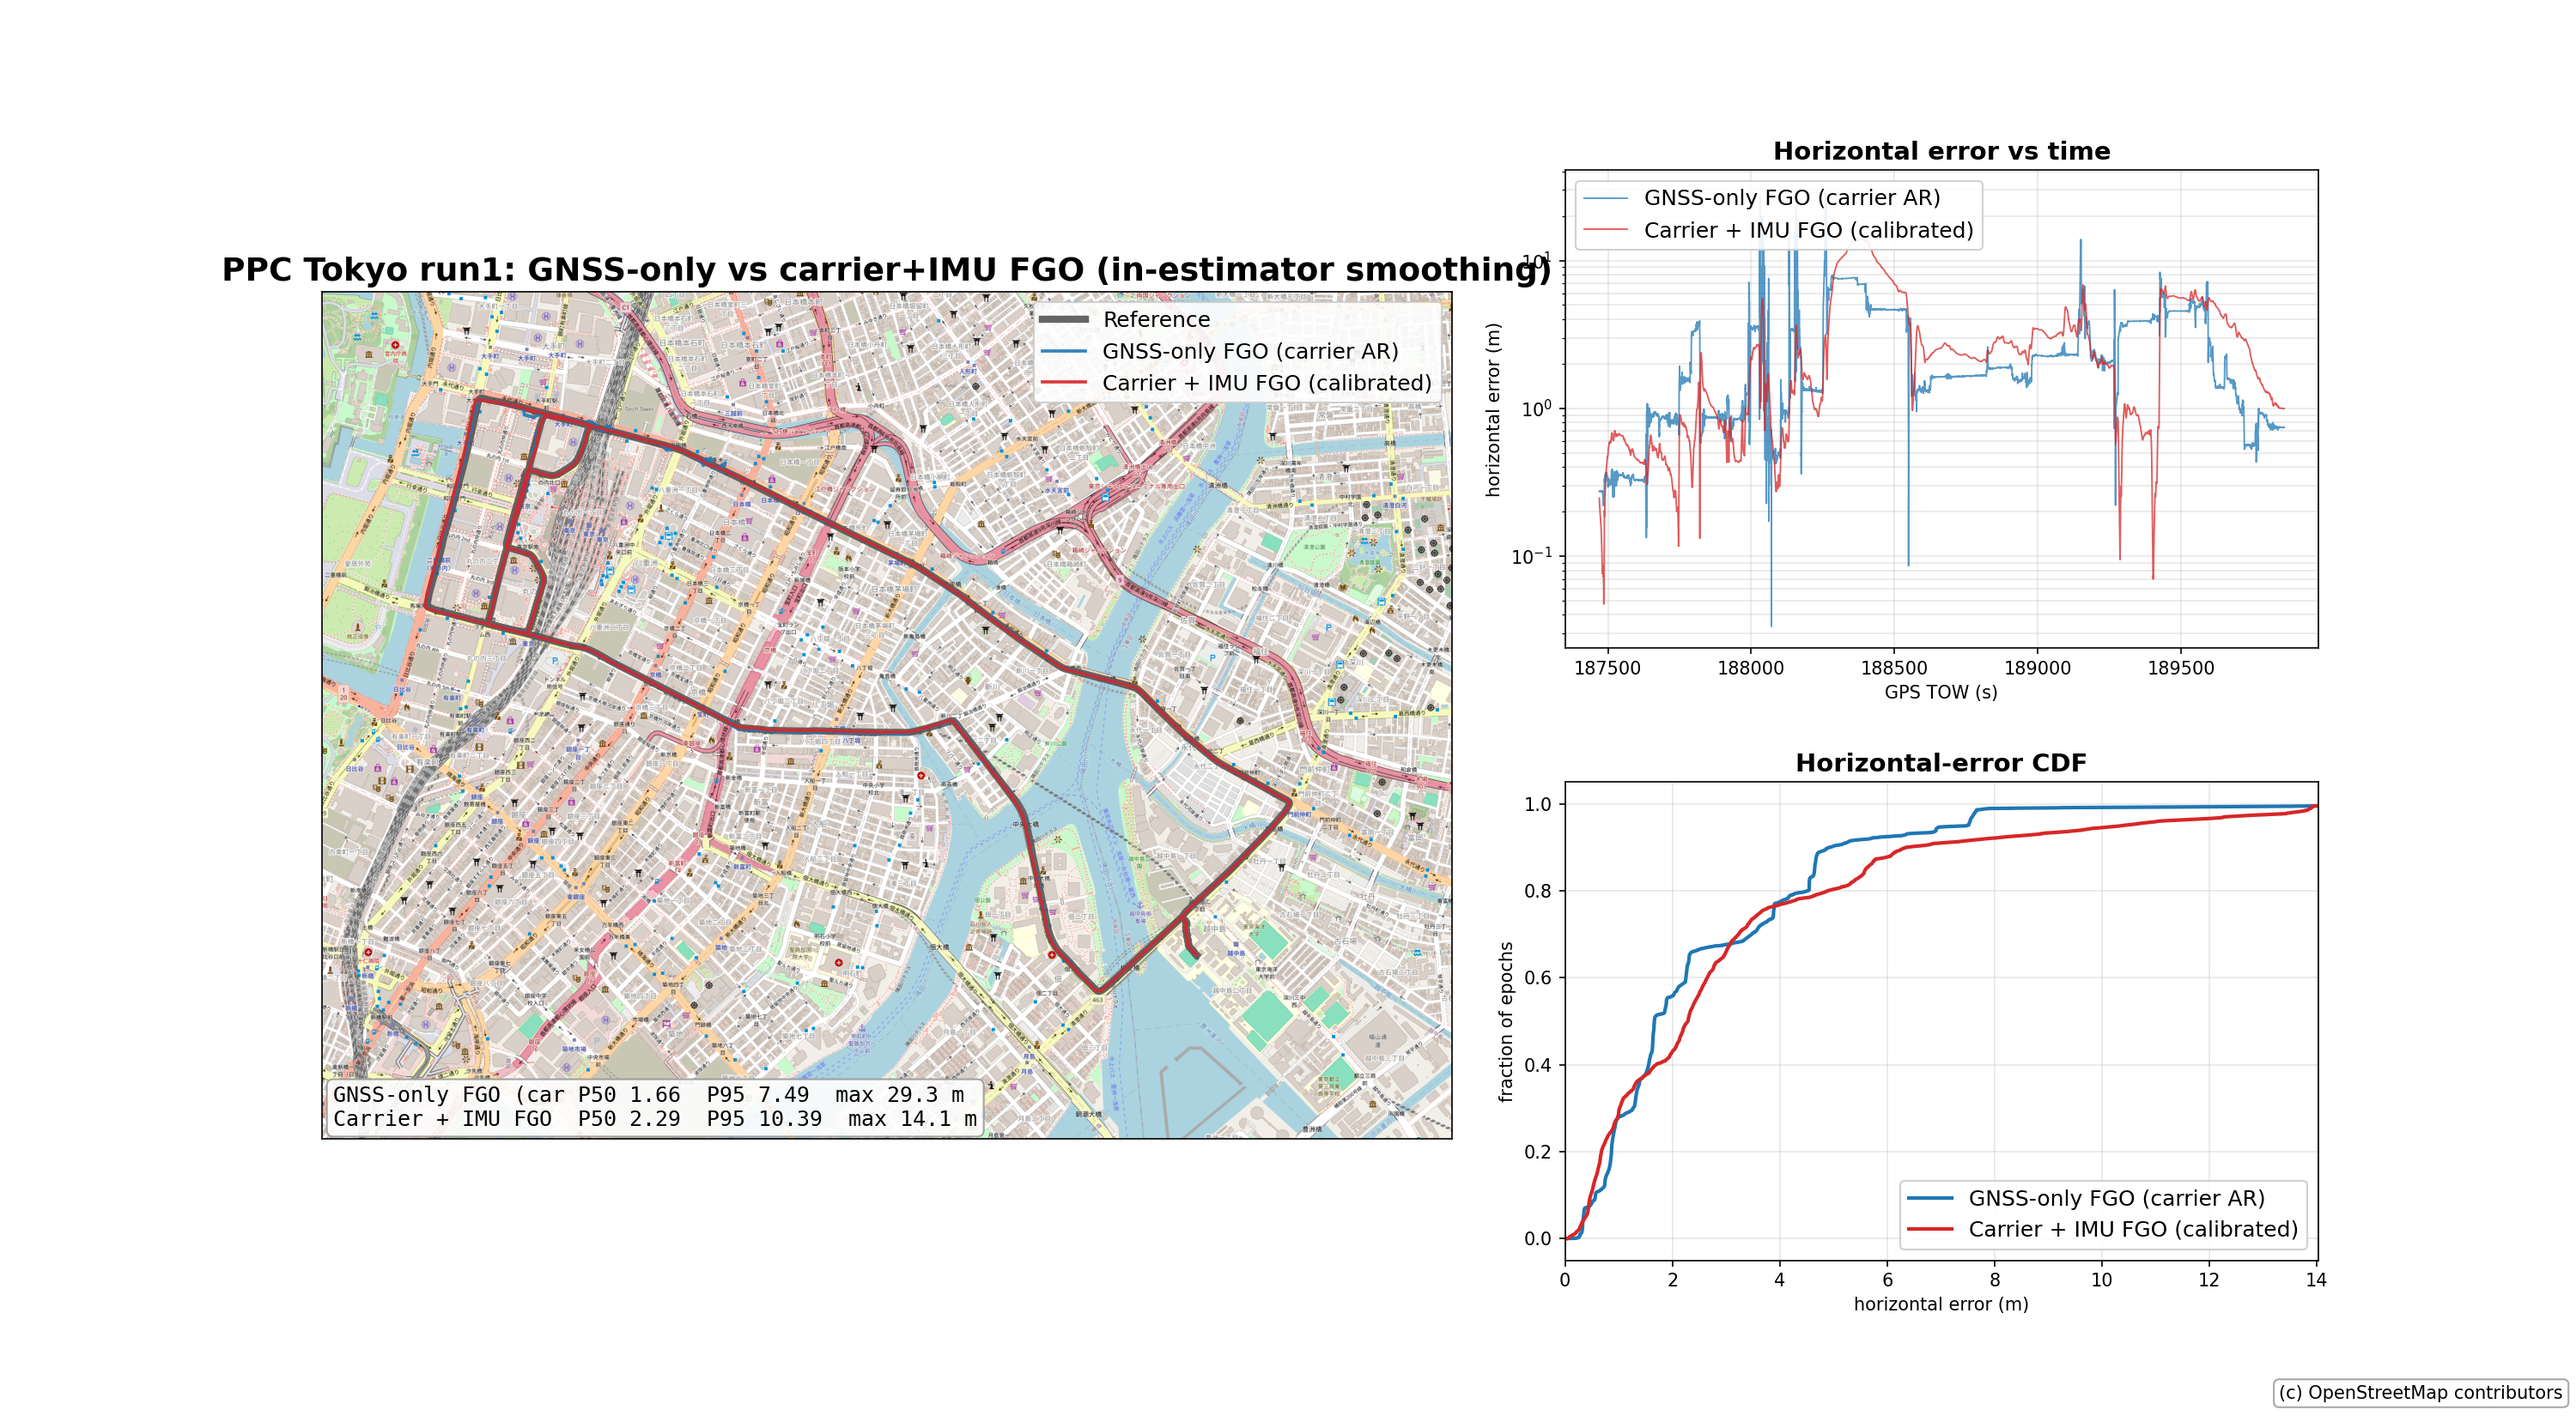
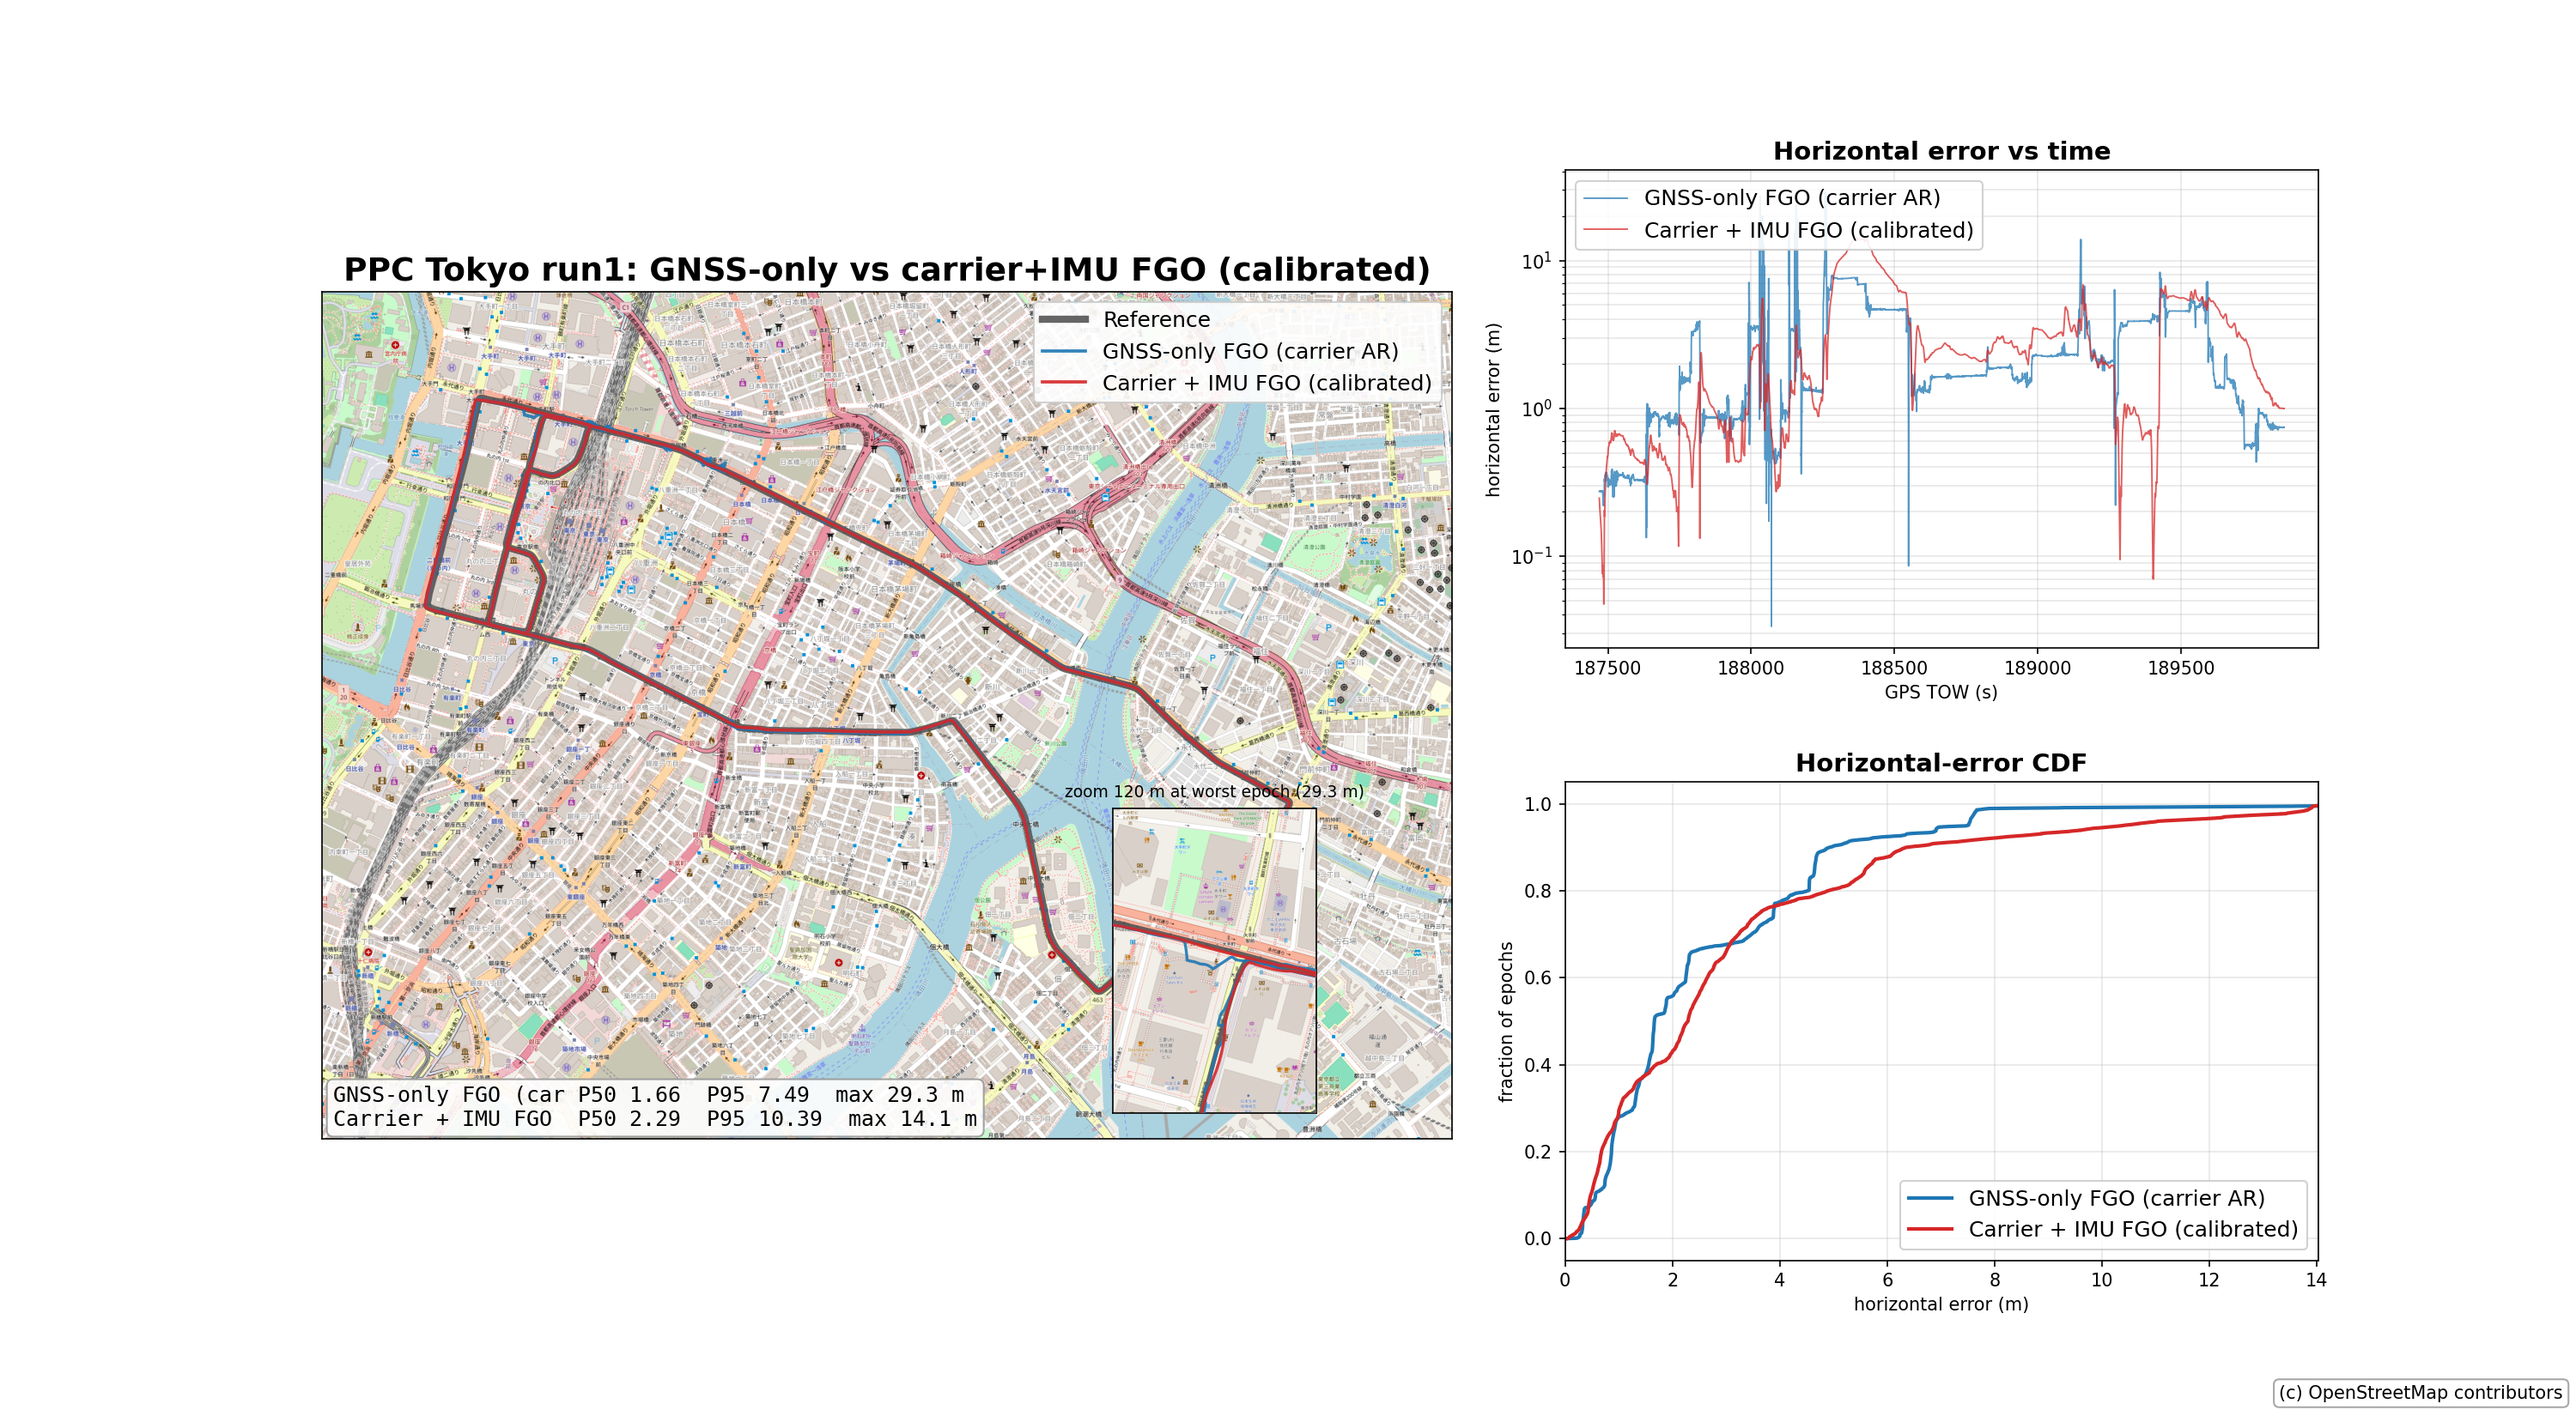
feat(plot): six-run validation and zoom inset for the FGO figure
Validate carrier+IMU vs carrier-only across tokyo run1/2/3 and nagoya
run1/2/3. Smoothing is consistent (~15-20x lower mean horizontal
acceleration from position second differences) and the worst epoch
improves in five of six runs (up to 158.8 -> 61.9 m on nagoya1); the
median is mixed. Adds a smoothness metric to the plot summary and an
auto 120 m zoom inset at the worst combined epoch.

Changed region(s): [[0.403, 0.5564, 0.527, 0.8036], [0.093, 0.1855, 0.62, 0.2164]]

diff --git a/scripts/plot_ppc_gnss_vs_fgo.py b/scripts/plot_ppc_gnss_vs_fgo.py
@@ -75,6 +75,7 @@ def horizontal_stats(solution, reference, tolerance_s: float) -> dict:
     if not matched:
         return {"matched": 0}
     h = np.array([epoch.horiz_error_m for epoch in matched])
+    acc_mean, acc_p95 = smoothness_stats(solution)
     return {
         "matched": len(matched),
         "p50_m": float(np.percentile(h, 50)),
@@ -82,7 +83,29 @@ def horizontal_stats(solution, reference, tolerance_s: float) -> dict:
         "max_m": float(h.max()),
         "rms_m": float(np.sqrt(np.mean(h * h))),
         "official_pct": float((np.percentile(h, 50) + np.percentile(h, 95)) / 2.0),
+        "acc_mean_mps2": acc_mean,
+        "acc_p95_mps2": acc_p95,
     }
+
+
+def smoothness_stats(solution) -> tuple:
+    """Mean/95th horizontal acceleration magnitude from position second
+    differences at the native epoch rate (in-estimator smoothness)."""
+    acc = []
+    for i in range(1, len(solution) - 1):
+        dt1 = solution[i].tow - solution[i - 1].tow
+        dt2 = solution[i + 1].tow - solution[i].tow
+        if not (0.15 <= dt1 <= 0.25 and 0.15 <= dt2 <= 0.25):
+            continue
+        a = solution[i - 1].ecef
+        b = solution[i].ecef
+        d = solution[i + 1].ecef
+        second = (d - 2.0 * b + a) / (dt1 * dt2)
+        acc.append(math.hypot(second[0], second[1]))
+    if not acc:
+        return float("nan"), float("nan")
+    arr = np.array(acc)
+    return float(arr.mean()), float(np.percentile(arr, 95))
 
 
 def lonlat_to_world(lat: float, lon: float, zoom: int) -> tuple[float, float]:
@@ -148,6 +171,9 @@ def parse_args():
     p.add_argument("--tolerance-s", type=float, default=0.25)
     p.add_argument("--no-osm", action="store_true",
                    help="Skip the OSM basemap (offline plot)")
+    p.add_argument("--no-zoom", action="store_true",
+                   help="Disable the zoomed inset at the worst combined epoch")
+    p.add_argument("--zoom-span-m", type=float, default=120.0)
     p.add_argument("--summary-only", action="store_true",
                    help="Print stats only, draw nothing")
     p.add_argument("--dpi", type=int, default=170)
@@ -219,6 +245,48 @@ def main() -> int:
         ax_map.set_ylim(oy + h, oy)
         fig.text(0.995, 0.01, "(c) OpenStreetMap contributors", ha="right", va="bottom",
                  fontsize=10, bbox=dict(boxstyle="round", fc="white", ec="#999999", alpha=0.85))
+
+        if not args.no_zoom:
+            worst_err = -1.0
+            worst_tow = None
+            for arm in arms:
+                for e in arm["matched"]:
+                    if e.horiz_error_m > worst_err:
+                        worst_err = e.horiz_error_m
+                        worst_tow = e.tow
+            center = None
+            if worst_tow is not None:
+                for arm in arms:
+                    for e in arm["epochs"]:
+                        if abs(e.tow - worst_tow) < 1e-6:
+                            center = (e.lat_deg, e.lon_deg)
+                            break
+                    if center is not None:
+                        break
+            if center is not None:
+                clat, clon = center
+                span_m = args.zoom_span_m
+                dlat = span_m / 111320.0
+                dlon = span_m / (111320.0 * math.cos(math.radians(clat)))
+                inset, izoom, ix, iy = build_basemap(
+                    clat - dlat, clat + dlat, clon - dlon, clon + dlon, 18)
+                iw, ih = inset.size
+                axi = ax_map.inset_axes([0.61, 0.03, 0.36, 0.36])
+                axi.imshow(np.asarray(inset), extent=[ix, ix + iw, iy + ih, iy])
+                rxs, rys = to_px([e.lat_deg for e in reference],
+                                 [e.lon_deg for e in reference], izoom)
+                axi.plot(rxs, rys, color=REF_COLOR, lw=2.5, alpha=0.9, zorder=3)
+                for arm in arms:
+                    xs, ys = to_px([e.lat_deg for e in arm["epochs"]],
+                                   [e.lon_deg for e in arm["epochs"]], izoom)
+                    axi.plot(xs, ys, color=arm["color"], lw=1.6, alpha=0.9, zorder=3)
+                axi.set_xlim(ix, ix + iw)
+                axi.set_ylim(iy + ih, iy)
+                axi.set_aspect("equal")
+                axi.set_xticks([])
+                axi.set_yticks([])
+                axi.set_title(f"zoom {span_m:.0f} m at worst epoch ({worst_err:.1f} m)",
+                              fontsize=9)
 
     ax_map.set_aspect("equal")
     ax_map.set_xticks([])

diff --git a/docs/ppc_rtk_vs_gnss_imu_fusion.md b/docs/ppc_rtk_vs_gnss_imu_fusion.md
@@ -119,17 +119,31 @@ Related knobs: `--imu-lever-arm X Y Z`, `--imu-no-mounting`,
 
 ![PPC Tokyo run1 — carrier-phase vs IMU-aided FGO](ppc_fgo_carrier_vs_imu.png)
 
-| arm (Tokyo run1) | P50 | P95 | max | RMS |
-|---|---:|---:|---:|---:|
-| GNSS carrier FGO (DD, base) | 1.66 | 7.49 | 29.3 | 3.55 |
-| Carrier + IMU FGO (calibrated) | 2.29 | 10.39 | 14.1 | 4.31 |
-| GNSS/IMU FGO (no-base TDCP) | 4.60 | 18.29 | 45.9 | 10.26 |
-| GNSS code FGO (no base) | 3.62 | 20.94 | 39.6 | 9.41 |
+Carrier-phase ambiguity resolution dominates: on Tokyo run1 the code-only
+no-base FGO (P50 3.62 m) is ~2x worse than the carrier FGO (P50 1.66 m),
+and the no-base IMU TDCP FGO is 4.60 m. The pure GNSS carrier arm runs the
+Eigen batch solver while the IMU arm runs the GTSAM fixed-lag smoother
+(batch GTSAM is ~15 min for 1000 epochs), so the two arms differ by solver.
 
-Carrier-phase ambiguity resolution dominates: the code-only FGO is ~2x
-worse than the carrier FGO. The pure GNSS carrier arm runs the Eigen
-batch solver while the IMU arm runs the GTSAM fixed-lag smoother (batch
-GTSAM is ~15 min for 1000 epochs), so the arms differ by solver.
+### Six-run check (Tokyo and Nagoya, run1/2/3)
+
+carrier-only vs carrier + IMU (calibrated), horizontal error P50/P95/max
+(m) and mean horizontal acceleration (in-estimator smoothness, m/s²):
+
+| run | carrier-only P50/P95/max | carrier+IMU P50/P95/max | acc only -> IMU |
+|---|---|---|---|
+| tokyo1 | 1.66 / 7.49 / 29.3 | 2.29 / 10.39 / 14.1 | 5.13 -> 0.35 |
+| tokyo2 | 0.39 / 2.91 / 40.3 | 0.47 / 2.47 / 15.9 | 5.22 -> 0.37 |
+| tokyo3 | 0.61 / 10.95 / 45.7 | 0.50 / 10.17 / 30.7 | 6.16 -> 0.33 |
+| nagoya1 | 0.37 / 7.59 / 158.8 | 0.61 / 20.85 / 61.9 | 7.23 -> 0.27 |
+| nagoya2 | 1.58 / 16.56 / 92.7 | 3.05 / 11.61 / 21.5 | 3.77 -> 0.27 |
+| nagoya3 | 3.60 / 10.78 / 22.3 | 3.68 / 16.65 / 22.5 | 3.93 -> 0.33 |
+
+The smoothing is consistent across all six runs (~15-20x lower
+acceleration), and the worst epoch improves in five of six (up to
+158.8 -> 61.9 m on nagoya1). The median is mixed (slightly worse in
+tokyo1/2 and nagoya1/2, better in tokyo3), so this is a robustness and
+smoothness trade, not a uniform accuracy win.
 
 ### IMU noise calibration
 
@@ -144,11 +158,9 @@ the earlier hand-tuned "noise x0.1" result to within 0.01 m.
 ### In-estimator trajectory smoothing
 
 With the calibrated noise and a 20 s fixed-lag window the estimated
-trajectory is smoothed entirely inside the estimator — no post-processing.
-The mean horizontal acceleration from position second differences at the
-native epoch rate drops from 5.13 m/s² (carrier-only Eigen batch) to
-0.35 m/s², and the worst epoch improves from 29.3 m to 14.1 m; P50 moves
-1.66 -> 2.29 m.
+trajectory is smoothed entirely inside the estimator — no post-processing
+(filter, RTS or spline). The figure auto-draws a 120 m zoom inset at the
+worst combined epoch so the local track shape can be inspected.
 
 ![Carrier-only vs calibrated carrier+IMU FGO](ppc_fgo_imu_smoothing.png)
 
